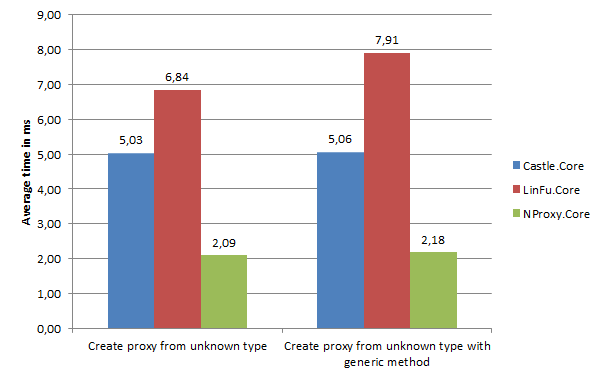
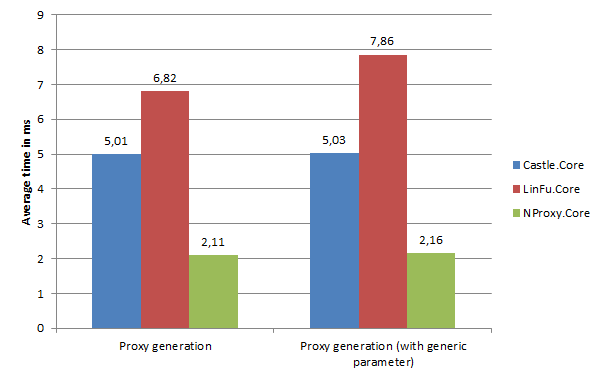
Minor changes.

diff --git a/Source/Test/NProxy.Core.Test/Performance/NProxyPerformanceTestFixture.cs b/Source/Test/NProxy.Core.Test/Performance/NProxyPerformanceTestFixture.cs
@@ -48,7 +48,7 @@ namespace NProxy.Core.Test.Performance
         }
 
         [TestCase(1000)]
-        public void CreateProxyFromUnknownTypeTest(int iterations)
+        public void ProxyGenerationTest(int iterations)
         {
             var invocationHandler = new NProxyInvocationHandler(new Method());
             var stopwatch = new Stopwatch();
@@ -64,11 +64,11 @@ namespace NProxy.Core.Test.Performance
                 stopwatch.Stop();
             }
 
-            Report.Instance.WriteValues(AssemblyName, Scenario.CreateProxyFromUnknownType, iterations, stopwatch.Elapsed);
+            Report.Instance.WriteValues(AssemblyName, Scenario.ProxyGeneration, iterations, stopwatch.Elapsed);
         }
 
         [TestCase(1000)]
-        public void CreateProxyFromUnknownTypeWithGenericMethodTest(int iterations)
+        public void ProxyGenerationWithGenericParameterTest(int iterations)
         {
             var invocationHandler = new NProxyInvocationHandler(new GenericMethod());
             var stopwatch = new Stopwatch();
@@ -84,11 +84,11 @@ namespace NProxy.Core.Test.Performance
                 stopwatch.Stop();
             }
 
-            Report.Instance.WriteValues(AssemblyName, Scenario.CreateProxyFromUnknownTypeWithGenericMethod, iterations, stopwatch.Elapsed);
+            Report.Instance.WriteValues(AssemblyName, Scenario.ProxyGenerationWithGenericParameter, iterations, stopwatch.Elapsed);
         }
 
         [TestCase(1000000)]
-        public void CreateProxyFromKnownTypeTest(int iterations)
+        public void ProxyInstantiationTest(int iterations)
         {
             var invocationHandler = new NProxyInvocationHandler(new Method());
             var proxyFactory = new ProxyFactory();
@@ -105,11 +105,11 @@ namespace NProxy.Core.Test.Performance
 
             stopwatch.Stop();
 
-            Report.Instance.WriteValues(AssemblyName, Scenario.CreateProxyFromKnownType, iterations, stopwatch.Elapsed);
+            Report.Instance.WriteValues(AssemblyName, Scenario.ProxyInstantiation, iterations, stopwatch.Elapsed);
         }
 
         [TestCase(1000000)]
-        public void CreateProxyFromKnownTypeWithGenericMethodTest(int iterations)
+        public void ProxyInstantiationWithGenericParameterTest(int iterations)
         {
             var invocationHandler = new NProxyInvocationHandler(new GenericMethod());
             var proxyFactory = new ProxyFactory();
@@ -126,11 +126,11 @@ namespace NProxy.Core.Test.Performance
 
             stopwatch.Stop();
 
-            Report.Instance.WriteValues(AssemblyName, Scenario.CreateProxyFromKnownTypeWithGenericMethod, iterations, stopwatch.Elapsed);
+            Report.Instance.WriteValues(AssemblyName, Scenario.ProxyInstantiationWithGenericParameter, iterations, stopwatch.Elapsed);
         }
 
         [TestCase(10000000)]
-        public void InvokeMethodTest(int iterations)
+        public void MethodInvocationTest(int iterations)
         {
             var invocationHandler = new NProxyInvocationHandler(new Method());
             var proxyFactory = new ProxyFactory();
@@ -146,11 +146,11 @@ namespace NProxy.Core.Test.Performance
 
             stopwatch.Stop();
 
-            Report.Instance.WriteValues(AssemblyName, Scenario.InvokeMethod, iterations, stopwatch.Elapsed);
+            Report.Instance.WriteValues(AssemblyName, Scenario.MethodInvocation, iterations, stopwatch.Elapsed);
         }
 
         [TestCase(10000000)]
-        public void InvokeGenericMethodTest(int iterations)
+        public void MethodInvocationWithGenericParameterTest(int iterations)
         {
             var invocationHandler = new NProxyInvocationHandler(new GenericMethod());
             var proxyFactory = new ProxyFactory();
@@ -166,7 +166,7 @@ namespace NProxy.Core.Test.Performance
 
             stopwatch.Stop();
 
-            Report.Instance.WriteValues(AssemblyName, Scenario.InvokeGenericMethod, iterations, stopwatch.Elapsed);
+            Report.Instance.WriteValues(AssemblyName, Scenario.MethodInvocationWithGenericParameter, iterations, stopwatch.Elapsed);
         }
     }
 }

diff --git a/Source/Test/NProxy.Core.Test/Performance/CastlePerformanceTestFixture.cs b/Source/Test/NProxy.Core.Test/Performance/CastlePerformanceTestFixture.cs
@@ -49,7 +49,7 @@ namespace NProxy.Core.Test.Performance
         }
 
         [TestCase(1000)]
-        public void CreateProxyFromUnknownTypeTest(int iterations)
+        public void ProxyGenerationTest(int iterations)
         {
             var interceptors = new IInterceptor[] {new CastleInterceptor()};
             var target = new Method();
@@ -66,11 +66,11 @@ namespace NProxy.Core.Test.Performance
                 stopwatch.Stop();
             }
 
-            Report.Instance.WriteValues(AssemblyName, Scenario.CreateProxyFromUnknownType, iterations, stopwatch.Elapsed);
+            Report.Instance.WriteValues(AssemblyName, Scenario.ProxyGeneration, iterations, stopwatch.Elapsed);
         }
 
         [TestCase(1000)]
-        public void CreateProxyFromUnknownTypeWithGenericMethodTest(int iterations)
+        public void ProxyGenerationWithGenericParameterTest(int iterations)
         {
             var interceptors = new IInterceptor[] {new CastleInterceptor()};
             var target = new GenericMethod();
@@ -87,11 +87,11 @@ namespace NProxy.Core.Test.Performance
                 stopwatch.Stop();
             }
 
-            Report.Instance.WriteValues(AssemblyName, Scenario.CreateProxyFromUnknownTypeWithGenericMethod, iterations, stopwatch.Elapsed);
+            Report.Instance.WriteValues(AssemblyName, Scenario.ProxyGenerationWithGenericParameter, iterations, stopwatch.Elapsed);
         }
 
         [TestCase(1000000)]
-        public void CreateProxyFromKnownTypeTest(int iterations)
+        public void ProxyInstantiationTest(int iterations)
         {
             var proxyGenerator = new ProxyGenerator();
             var interceptors = new IInterceptor[] {new CastleInterceptor()};
@@ -109,11 +109,11 @@ namespace NProxy.Core.Test.Performance
 
             stopwatch.Stop();
 
-            Report.Instance.WriteValues(AssemblyName, Scenario.CreateProxyFromKnownType, iterations, stopwatch.Elapsed);
+            Report.Instance.WriteValues(AssemblyName, Scenario.ProxyInstantiation, iterations, stopwatch.Elapsed);
         }
 
         [TestCase(1000000)]
-        public void CreateProxyFromKnownTypeWithGenericMethodTest(int iterations)
+        public void ProxyInstantiationWithGenericParameterTest(int iterations)
         {
             var proxyGenerator = new ProxyGenerator();
             var interceptors = new IInterceptor[] {new CastleInterceptor()};
@@ -131,11 +131,11 @@ namespace NProxy.Core.Test.Performance
 
             stopwatch.Stop();
 
-            Report.Instance.WriteValues(AssemblyName, Scenario.CreateProxyFromKnownTypeWithGenericMethod, iterations, stopwatch.Elapsed);
+            Report.Instance.WriteValues(AssemblyName, Scenario.ProxyInstantiationWithGenericParameter, iterations, stopwatch.Elapsed);
         }
 
         [TestCase(10000000)]
-        public void InvokeMethodTest(int iterations)
+        public void MethodInvocationTest(int iterations)
         {
             var proxyGenerator = new ProxyGenerator();
             var interceptors = new IInterceptor[] {new CastleInterceptor()};
@@ -152,11 +152,11 @@ namespace NProxy.Core.Test.Performance
 
             stopwatch.Stop();
 
-            Report.Instance.WriteValues(AssemblyName, Scenario.InvokeMethod, iterations, stopwatch.Elapsed);
+            Report.Instance.WriteValues(AssemblyName, Scenario.MethodInvocation, iterations, stopwatch.Elapsed);
         }
 
         [TestCase(10000000)]
-        public void InvokeGenericMethodTest(int iterations)
+        public void MethodInvocationWithGenericParameterTest(int iterations)
         {
             var proxyGenerator = new ProxyGenerator();
             var interceptors = new IInterceptor[] {new CastleInterceptor()};
@@ -173,7 +173,7 @@ namespace NProxy.Core.Test.Performance
 
             stopwatch.Stop();
 
-            Report.Instance.WriteValues(AssemblyName, Scenario.InvokeGenericMethod, iterations, stopwatch.Elapsed);
+            Report.Instance.WriteValues(AssemblyName, Scenario.MethodInvocationWithGenericParameter, iterations, stopwatch.Elapsed);
         }
     }
 }

diff --git a/Source/Test/NProxy.Core.Test/Performance/LinFuPerformanceTestFixture.cs b/Source/Test/NProxy.Core.Test/Performance/LinFuPerformanceTestFixture.cs
@@ -48,7 +48,7 @@ namespace NProxy.Core.Test.Performance
         }
 
         [TestCase(1000)]
-        public void CreateProxyFromUnknownTypeTest(int iterations)
+        public void ProxyGenerationTest(int iterations)
         {
             var interceptor = new LinFuInterceptor(new Method());
             var stopwatch = new Stopwatch();
@@ -64,11 +64,11 @@ namespace NProxy.Core.Test.Performance
                 stopwatch.Stop();
             }
 
-            Report.Instance.WriteValues(AssemblyName, Scenario.CreateProxyFromUnknownType, iterations, stopwatch.Elapsed);
+            Report.Instance.WriteValues(AssemblyName, Scenario.ProxyGeneration, iterations, stopwatch.Elapsed);
         }
 
         [TestCase(1000)]
-        public void CreateProxyFromUnknownTypeWithGenericMethodTest(int iterations)
+        public void ProxyGenerationWithGenericParameterTest(int iterations)
         {
             var interceptor = new LinFuInterceptor(new GenericMethod());
             var stopwatch = new Stopwatch();
@@ -84,11 +84,11 @@ namespace NProxy.Core.Test.Performance
                 stopwatch.Stop();
             }
 
-            Report.Instance.WriteValues(AssemblyName, Scenario.CreateProxyFromUnknownTypeWithGenericMethod, iterations, stopwatch.Elapsed);
+            Report.Instance.WriteValues(AssemblyName, Scenario.ProxyGenerationWithGenericParameter, iterations, stopwatch.Elapsed);
         }
 
         [TestCase(1000000)]
-        public void CreateProxyFromKnownTypeTest(int iterations)
+        public void ProxyInstantiationTest(int iterations)
         {
             var proxyFactory = new LinFu.Proxy.ProxyFactory();
             var interceptor = new LinFuInterceptor(new Method());
@@ -105,11 +105,11 @@ namespace NProxy.Core.Test.Performance
 
             stopwatch.Stop();
 
-            Report.Instance.WriteValues(AssemblyName, Scenario.CreateProxyFromKnownType, iterations, stopwatch.Elapsed);
+            Report.Instance.WriteValues(AssemblyName, Scenario.ProxyInstantiation, iterations, stopwatch.Elapsed);
         }
 
         [TestCase(1000000)]
-        public void CreateProxyFromKnownTypeWithGenericMethodTest(int iterations)
+        public void ProxyInstantiationWithGenericParameterTest(int iterations)
         {
             var proxyFactory = new LinFu.Proxy.ProxyFactory();
             var interceptor = new LinFuInterceptor(new GenericMethod());
@@ -126,11 +126,11 @@ namespace NProxy.Core.Test.Performance
 
             stopwatch.Stop();
 
-            Report.Instance.WriteValues(AssemblyName, Scenario.CreateProxyFromKnownTypeWithGenericMethod, iterations, stopwatch.Elapsed);
+            Report.Instance.WriteValues(AssemblyName, Scenario.ProxyInstantiationWithGenericParameter, iterations, stopwatch.Elapsed);
         }
 
         [TestCase(10000000)]
-        public void InvokeMethodTest(int iterations)
+        public void MethodInvocationTest(int iterations)
         {
             var proxyFactory = new LinFu.Proxy.ProxyFactory();
             var interceptor = new LinFuInterceptor(new Method());
@@ -146,11 +146,11 @@ namespace NProxy.Core.Test.Performance
 
             stopwatch.Stop();
 
-            Report.Instance.WriteValues(AssemblyName, Scenario.InvokeMethod, iterations, stopwatch.Elapsed);
+            Report.Instance.WriteValues(AssemblyName, Scenario.MethodInvocation, iterations, stopwatch.Elapsed);
         }
 
         [TestCase(10000000)]
-        public void InvokeGenericMethodTest(int iterations)
+        public void MethodInvocationWithGenericParameterTest(int iterations)
         {
             var proxyFactory = new LinFu.Proxy.ProxyFactory();
             var interceptor = new LinFuInterceptor(new GenericMethod());
@@ -166,7 +166,7 @@ namespace NProxy.Core.Test.Performance
 
             stopwatch.Stop();
 
-            Report.Instance.WriteValues(AssemblyName, Scenario.InvokeGenericMethod, iterations, stopwatch.Elapsed);
+            Report.Instance.WriteValues(AssemblyName, Scenario.MethodInvocationWithGenericParameter, iterations, stopwatch.Elapsed);
         }
     }
 }

diff --git a/Source/Test/NProxy.Core.Test/Performance/Scenario.cs b/Source/Test/NProxy.Core.Test/Performance/Scenario.cs
@@ -22,35 +22,35 @@ namespace NProxy.Core.Test.Performance
 {
     internal sealed class Scenario
     {
-        public static readonly Scenario CreateProxyFromUnknownType = new Scenario(
+        public static readonly Scenario ProxyGeneration = new Scenario(
             1,
-            "CreateProxyFromUnknownType",
-            "Create proxy from unknown type");
+            "ProxyGeneration",
+            "Proxy generation");
 
-        public static readonly Scenario CreateProxyFromUnknownTypeWithGenericMethod = new Scenario(
+        public static readonly Scenario ProxyGenerationWithGenericParameter = new Scenario(
             2,
-            "CreateProxyFromUnknownTypeWithGenericMethod",
-            "Create proxy from unknown type with generic method");
+            "ProxyGenerationWithGenericParameter",
+            "Proxy generation (with generic parameter)");
 
-        public static readonly Scenario CreateProxyFromKnownType = new Scenario(
+        public static readonly Scenario ProxyInstantiation = new Scenario(
             3,
-            "CreateProxyFromKnownType",
-            "Create proxy from known type");
+            "ProxyInstantiation",
+            "Proxy instantiation");
 
-        public static readonly Scenario CreateProxyFromKnownTypeWithGenericMethod = new Scenario(
+        public static readonly Scenario ProxyInstantiationWithGenericParameter = new Scenario(
             4,
-            "CreateProxyFromKnownTypeWithGenericMethod",
-            "Create proxy from known type with generic method");
+            "ProxyInstantiationWithGenericParameter",
+            "Proxy instantiation (with generic parameter)");
 
-        public static readonly Scenario InvokeMethod = new Scenario(
+        public static readonly Scenario MethodInvocation = new Scenario(
             5,
-            "InvokeMethod",
-            "Invoke method");
+            "MethodInvocation",
+            "Method invocation");
 
-        public static readonly Scenario InvokeGenericMethod = new Scenario(
+        public static readonly Scenario MethodInvocationWithGenericParameter = new Scenario(
             6,
-            "InvokeGenericMethod",
-            "Invoke generic method");
+            "MethodInvocationWithGenericParameter",
+            "Method invocation (with generic parameter)");
 
         private readonly int _id;
 

diff --git a/README.md b/README.md
@@ -9,7 +9,7 @@ The answers which lead to the goals of the NProxy project can be summarized as f
 
 * Provide an API to generate dynamic proxies based upon unsealed classes, abstract classes, interfaces and delegates in a unified way.
 * Focus on a slim and fast implementation which can be easily extended.
-* Treat open generic methods not as aliens and massively improve their invocation performance.
+* Treat generic methods not as aliens and massively improve their invocation performance.
 * Support the invocation of intercepted base methods.
 * Make a library available which can be used as a base for AOP frameworks, mocking libraries, ...
 * Dynamic proxy creation must be thread-safe.
